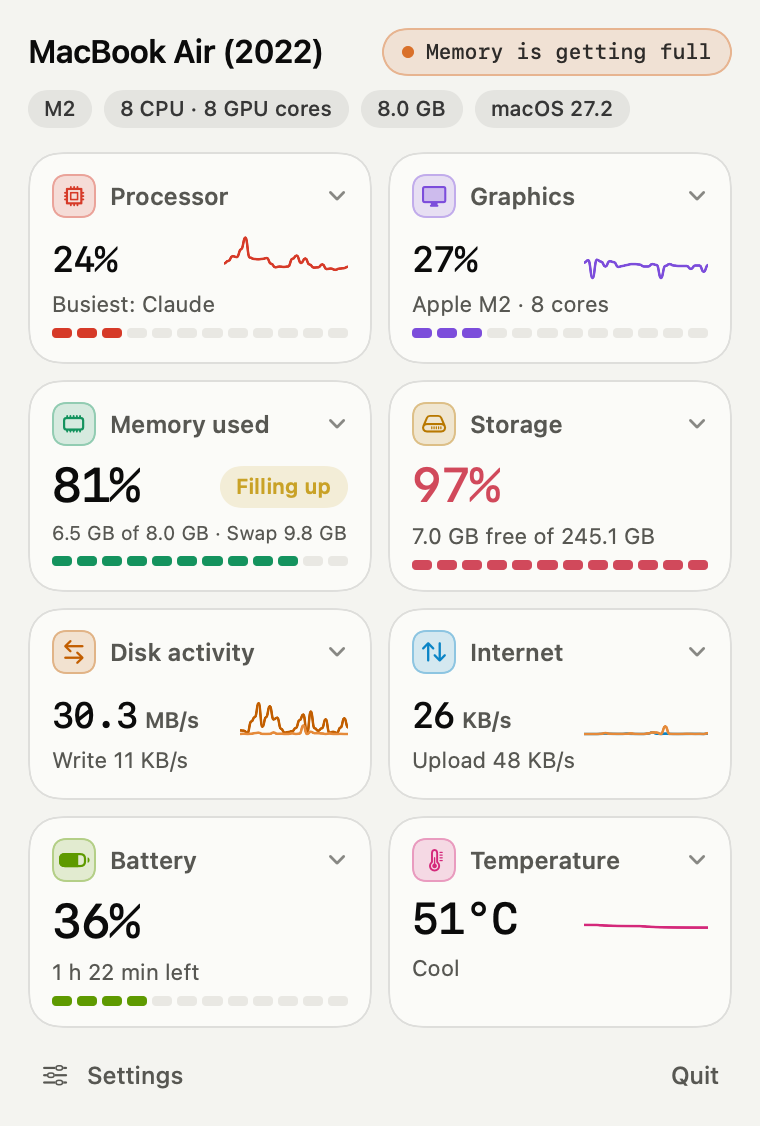
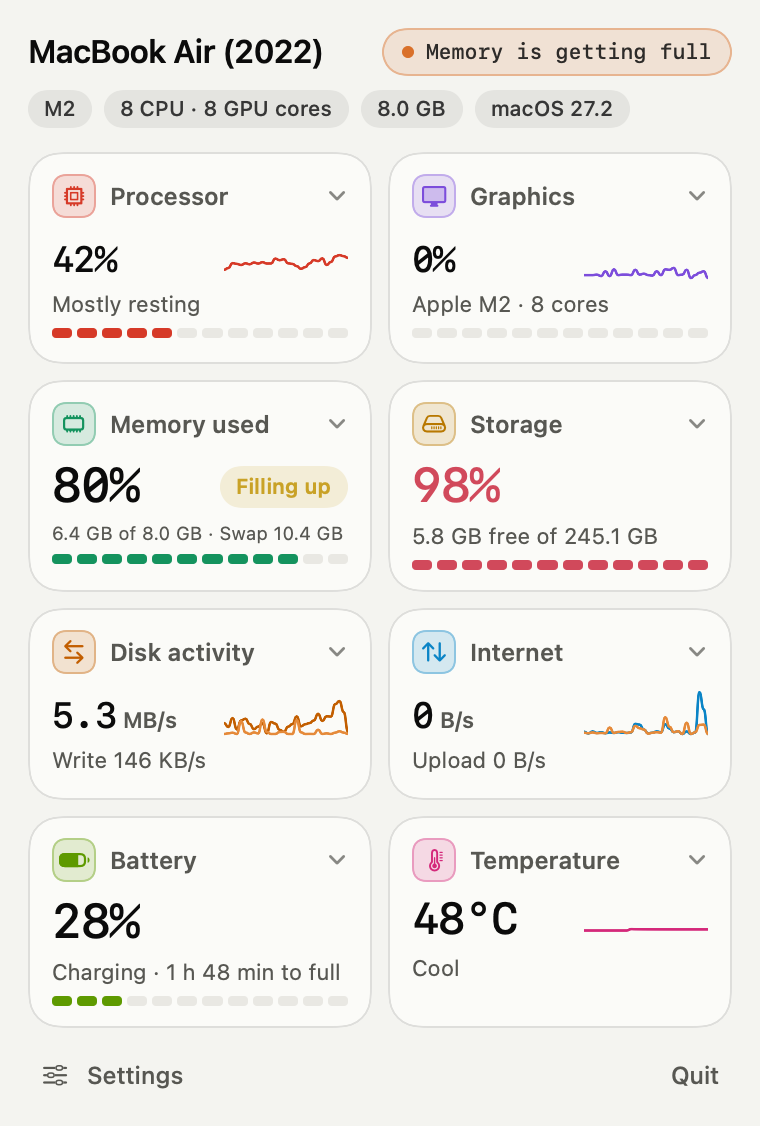
feat: 1.0.1 settings accent colour, opened tiles scroll into view, lighter app list, steady status label

diff --git a/Sources/Model.swift b/Sources/Model.swift
@@ -155,6 +155,10 @@ final class Prefs: ObservableObject {
     /// What the Live graph icon draws.
     @Published var iconSource: ModuleID { didSet { d.set(iconSource.rawValue, forKey: "iconSource") } }
     @Published var iconTinted: Bool { didSet { d.set(iconTinted, forKey: "iconTinted") } }
+    /// Which accent colour the Settings screens use (an index into SettingsAccent.all). Never touches the panel or icons.
+    @Published var settingsAccent: Int {
+        didSet { d.set(settingsAccent, forKey: "settingsAccent"); SettingsAccent.current = SettingsAccent.clamp(settingsAccent) }
+    }
     /// Kept for the test hooks: the hidden icon is one of the icon choices.
     var invisibleIcon: Bool {
         get { mainIcon == .hidden }
@@ -181,6 +185,9 @@ final class Prefs: ObservableObject {
         appearance = d.integer(forKey: "appearance")
         mainIcon = d.string(forKey: "mainIcon").flatMap(MainIcon.init(rawValue:)) ?? (d.bool(forKey: "invisibleIcon") ? .hidden : .bars)
         iconTinted = d.bool(forKey: "iconTinted")
+        let accent = SettingsAccent.clamp(d.integer(forKey: "settingsAccent"))
+        settingsAccent = accent
+        SettingsAccent.current = accent
         iconSource = d.string(forKey: "iconSource").flatMap(ModuleID.init(rawValue:)).flatMap { ModuleID.liveChoices.contains($0) ? $0 : nil } ?? .cpu
         // The colourful look is the only look now (the switch was removed), whatever an older version saved.
         themeIndex = 0
@@ -300,7 +307,15 @@ final class Monitor: ObservableObject {
         a.append(max(0, v)); if a.count > keep { a.removeFirst(a.count - keep) }
     }
 
+    #if STATS_TEST
+    /// Tests freeze the readings so two pictures of the panel can be compared pixel for pixel.
+    var frozen = false
+    #endif
+
     func sample() {
+        #if STATS_TEST
+        if frozen { return }
+        #endif
         sampleAt = ProcessInfo.processInfo.systemUptime
         if needs(.cpu), let c = cpuR.sample() { cpu = c; push(.cpu, c.total) }
         if needs(.memory), let m = memR.sample() { mem = m; push(.memory, m.fraction) }
@@ -331,7 +346,10 @@ final class Monitor: ObservableObject {
         }
         updateSteady(now)
         if visible {
-            if now - procAt >= 2 { procAt = now; procs = procR.sample() }
+            // The app list is the costliest reading (one call per running app), so it is only kept fresh while a tile that
+            // lists apps is open; otherwise it refreshes every 10 seconds for the "Busiest" line.
+            let listing = expanded == .cpu || expanded == .memory
+            if now - procAt >= (listing ? 3 : 10) { procAt = now; procs = procR.sample(exactMemory: expanded == .memory) }
             if now - ownAt > 2 { ownAt = now; let s = selfMeter.sample(); ownCPU = s.cpu; ownMemory = s.memory }
             objectWillChange.send()
         }

diff --git a/Sources/App.swift b/Sources/App.swift
@@ -269,10 +269,12 @@ enum Log {
         case "checks": if p.count > 1 { prefs.internetChecks = p[1] == "1" }
         case "tiles": if p.count > 1 { prefs.colourfulTiles = p[1] == "1" }
         case "invisible": if p.count > 1 { prefs.invisibleIcon = p[1] == "1" }
+        case "freeze": monitor.frozen = p.count > 1 && p[1] == "1"
         case "quietbars": StatusController.quiet = p.count > 1 && p[1] == "1"
         case "icon": if p.count > 1, let i = MainIcon(rawValue: p[1]) { prefs.mainIcon = i }
         case "iconsrc": if p.count > 1, let m = ModuleID(rawValue: p[1]), ModuleID.liveChoices.contains(m) { prefs.iconSource = m }
         case "icontint": if p.count > 1 { prefs.iconTinted = p[1] == "1" }
+        case "accent": if p.count > 1 { prefs.settingsAccent = SettingsAccent.clamp(Int(p[1]) ?? 0) }
         case "refresh": if p.count > 1 { prefs.refresh = Int(p[1]) ?? 2 }
         case "units": if p.count > 2 { if p[1] == "temp" { prefs.fahrenheit = p[2] == "f" } else { prefs.netBits = p[2] == "bits" } }
         case "zones": prefs.zones = p.count > 1 ? p[1].split(separator: ",").map(String.init) : []
@@ -318,7 +320,7 @@ enum Log {
         if let g = m.gpu { d["gpu"] = g }
         d["bars"] = status.info()
         d["summary"] = Dictionary(uniqueKeysWithValues: ModuleID.allCases.map { ($0.rawValue, ["value": m.summary($0).value, "subtitle": m.summary($0).subtitle]) })
-        d["prefs"] = ["refresh": prefs.refresh, "fahrenheit": prefs.fahrenheit, "netBits": prefs.netBits, "appearance": prefs.appearance, "invisible": prefs.invisibleIcon, "icon": prefs.mainIcon.rawValue, "iconSource": prefs.iconSource.rawValue, "iconTinted": prefs.iconTinted, "theme": prefs.themeIndex, "tiles": prefs.colourfulTiles, "checks": prefs.internetChecks, "alerts": prefs.alerts, "zones": prefs.zones]
+        d["prefs"] = ["refresh": prefs.refresh, "fahrenheit": prefs.fahrenheit, "netBits": prefs.netBits, "appearance": prefs.appearance, "invisible": prefs.invisibleIcon, "icon": prefs.mainIcon.rawValue, "iconSource": prefs.iconSource.rawValue, "iconTinted": prefs.iconTinted, "accent": prefs.settingsAccent, "theme": prefs.themeIndex, "tiles": prefs.colourfulTiles, "checks": prefs.internetChecks, "alerts": prefs.alerts, "zones": prefs.zones]
         if let b = m.battery { d["battery"] = ["percent": b.percent, "charging": b.charging, "plugged": b.pluggedIn, "cycles": b.cycles,
                                                 "health": b.health ?? -1, "secondsLeft": b.secondsLeft ?? -1] }
         if let w = popover.contentViewController?.view.window { d["panelFrame"] = NSStringFromRect(w.frame); d["panelWindow"] = w.windowNumber }

diff --git a/Sources/SettingsView.swift b/Sources/SettingsView.swift
@@ -114,6 +114,10 @@ struct SettingsView: View {
             ChipRow(options: [0, 1, 2], selected: prefs.appearance, label: { ["Auto", "Light", "Dark"][$0] }, tint: t) { prefs.appearance = $0 }
         }
         .modifier(pill("appearance"))
+        SettingRow(symbol: "paintbrush.pointed.fill", title: "Accent colour", subtitle: "Colours these Settings only. The panel and icons stay as they are.", tint: t) {
+            AccentSwatches(selected: prefs.settingsAccent) { prefs.settingsAccent = $0 }
+        }
+        .modifier(pill("accent"))
         iconCard(t)
             .modifier(pill("icon"))
         pickerCard(symbol: "waveform.path.ecg", title: "Live graph shows", subtitle: "What the Live graph icon follows in the menu bar.", tint: t) {
@@ -380,5 +384,33 @@ private struct SidebarRow: View {
         .accessibilityLabel(tab.title)
         .accessibilityAddTraits(on ? [.isButton, .isSelected] : .isButton)
         .accessibilityAction(.default, select)
+    }
+}
+
+/// Round colour swatches for the Settings accent. The ring slides to the chosen one with a spring.
+private struct AccentSwatches: View {
+    let selected: Int
+    let choose: (Int) -> Void
+    @Namespace private var ring
+
+    var body: some View {
+        HStack(spacing: 8) {
+            ForEach(SettingsAccent.all.indices, id: \.self) { i in
+                let a = SettingsAccent.all[i]
+                ZStack {
+                    if i == selected {
+                        Circle().strokeBorder(Pal.ink.opacity(0.55), lineWidth: 2).matchedGeometryEffect(id: "ring", in: ring)
+                    }
+                    Circle().fill(Color(nsColor: dyn(a.light, a.dark))).padding(4)
+                }
+                .frame(width: 26, height: 26)
+                .contentShape(Circle())
+                .onTapGesture { withAnimation(.spring(response: 0.3, dampingFraction: 0.78)) { choose(i) } }
+                .accessibilityElement(children: .ignore)
+                .accessibilityLabel("\(a.name) accent")
+                .accessibilityAddTraits(i == selected ? [.isButton, .isSelected] : .isButton)
+                .accessibilityAction { choose(i) }
+            }
+        }
     }
 }

diff --git a/Sources/PanelView.swift b/Sources/PanelView.swift
@@ -23,12 +23,21 @@ struct PanelView: View {
         VStack(spacing: 10) {
             header
             if scrolls {
-                ScrollView(showsIndicators: false) {
-                    cards(modules).background(GeometryReader { Color.clear.preference(key: HeightKey.self, value: $0.size.height) })
+                ScrollViewReader { proxy in
+                    ScrollView(showsIndicators: false) {
+                        cards(modules).background(GeometryReader { Color.clear.preference(key: HeightKey.self, value: $0.size.height) })
+                    }
+                    .frame(height: min(contentHeight, Self.maxListHeight))
+                    .scrollBounceBehavior(.basedOnSize)
+                    .onPreferenceChange(HeightKey.self) { contentHeight = $0 }
+                    // An opened tile near the bottom would be cut off, so once it has grown, scroll just enough to show all of it.
+                    .onChange(of: monitor.expanded) { _, open in
+                        guard let open else { return }
+                        DispatchQueue.main.asyncAfter(deadline: .now() + 0.32) {
+                            withAnimation(reduceMotion ? nil : panelSpring) { proxy.scrollTo(open, anchor: nil) }
+                        }
+                    }
                 }
-                .frame(height: min(contentHeight, Self.maxListHeight))
-                .scrollBounceBehavior(.basedOnSize)
-                .onPreferenceChange(HeightKey.self) { contentHeight = $0 }
             } else {
                 cards(modules)   // test snapshots: ImageRenderer cannot draw a ScrollView
             }
@@ -69,6 +78,7 @@ struct PanelView: View {
                                 ModuleTile(module: m, monitor: monitor, expanded: monitor.expanded == m, wide: row.count == 1) {
                                     withAnimation(reduceMotion ? nil : panelSpring) { monitor.expanded = monitor.expanded == m ? nil : m }
                                 }
+                                .id(m)
                             }
                         }
                         .fixedSize(horizontal: false, vertical: true)

diff --git a/Sources/Theme.swift b/Sources/Theme.swift
@@ -48,8 +48,8 @@ enum Pal {
     }
     /// Companion colours so no screen is one flat colour: second chart line, section colours in Settings.
     static let second = Color(nsColor: dyn(0xE58A3A, 0xF2A25C))
-    /// The app's own colour (the graphite metal of its icon): graphite in light mode, silver in dark.
-    static let brand = Color(nsColor: dyn(0x454952, 0xC5C9D2))
+    /// The Settings accent (graphite by default, matching the icon). Only the Settings screens use it.
+    static var brand: Color { let a = SettingsAccent.all[SettingsAccent.current]; return Color(nsColor: dyn(a.light, a.dark)) }
     static let violet = Color(nsColor: dyn(0x8A6FD0, 0xA58BE8))
     static let blue = Color(nsColor: dyn(0x5B86D6, 0x7EA3EA))
     static let teal = Color(nsColor: dyn(0x3FA48F, 0x58C2AB))
@@ -212,4 +212,15 @@ struct ChipRow<T: Hashable>: View {
             }
         }
     }
+}
+
+/// Accent colours for the Settings screens (light shade, dark shade). Selected chips and tabs put the panel colour on top,
+/// and each pair keeps WCAG AA contrast for that text: at least 4.9 to 1 in light and 5.8 to 1 in dark.
+enum SettingsAccent {
+    static let all: [(name: String, light: UInt32, dark: UInt32)] = [
+        ("Graphite", 0x454952, 0xC5C9D2), ("Blue", 0x2160C4, 0x82B1F2), ("Teal", 0x0B7268, 0x4FD1C0),
+        ("Orchid", 0xB0307F, 0xE25AA4), ("Orange", 0xB04A0A, 0xF59A4A),
+    ]
+    static var current = 0
+    static func clamp(_ i: Int) -> Int { min(max(i, 0), all.count - 1) }
 }

diff --git a/Sources/Readers2.swift b/Sources/Readers2.swift
@@ -263,7 +263,7 @@ final class ProcessReader {
         return Double(t.numer) / Double(t.denom)
     }()
 
-    func sample() -> [ProcRow] {
+    func sample(exactMemory: Bool = true) -> [ProcRow] {
         // proc_listallpids returns a number of processes (not bytes); the buffer size argument is in bytes.
         let count = proc_listallpids(nil, 0)
         guard count > 0 else { return [] }
@@ -272,7 +272,7 @@ final class ProcessReader {
         guard n > 0 else { return [] }
         let now = ProcessInfo.processInfo.systemUptime
         // After a long gap (panel closed) old tick counts would average a whole stretch of time, so start fresh.
-        if prevAt > 0, now - prevAt > 6 { prev = [:]; prevAt = 0 }
+        if prevAt > 0, now - prevAt > 15 { prev = [:]; prevAt = 0 }
         let dt = (now - prevAt) * 1e9
         var cur: [Int32: UInt64] = [:]
         var rows: [ProcRow] = []
@@ -286,6 +286,7 @@ final class ProcessReader {
             rows.append(ProcRow(id: pid, name: name(pid), cpu: cpu, memory: Double(ti.pti_resident_size)))
         }
         prev = cur; prevAt = now
+        guard exactMemory else { return rows }
         // The exact memory figure (what Activity Monitor shows) costs a call per app, so only the biggest ones get it.
         let big = Set(rows.sorted { $0.memory > $1.memory }.prefix(40).map(\.id))
         for i in rows.indices where big.contains(rows[i].id) {

diff --git a/Sources/SettingsNav.swift b/Sources/SettingsNav.swift
@@ -20,7 +20,7 @@ import SwiftUI
 
     /// Every setting in the order the pages show them.
     var rows: [Row] {
-        var r: [Row] = [Row(id: "appearance", tab: .look), Row(id: "icon", tab: .look), Row(id: "iconsource", tab: .look), Row(id: "icontint", tab: .look),
+        var r: [Row] = [Row(id: "appearance", tab: .look), Row(id: "accent", tab: .look), Row(id: "icon", tab: .look), Row(id: "iconsource", tab: .look), Row(id: "icontint", tab: .look),
                        Row(id: "unit.temp", tab: .look), Row(id: "unit.speed", tab: .look), Row(id: "refresh", tab: .look)]
         for m in ModuleID.allCases {
             r.append(Row(id: "mod.\(m.rawValue).show", tab: .modules))
@@ -64,6 +64,7 @@ import SwiftUI
     private func adjust(_ id: String, _ d: Int, activate: Bool = false) {
         switch id {
         case "appearance": prefs.appearance = step([0, 1, 2], prefs.appearance, d)
+        case "accent": prefs.settingsAccent = step(Array(SettingsAccent.all.indices), prefs.settingsAccent, d)
         case "theme": prefs.themeIndex = step(Array(ThemeStore.all.indices), min(prefs.themeIndex, ThemeStore.all.count - 1), d)
         case "icon": prefs.mainIcon = step(MainIcon.allCases, prefs.mainIcon, d)
         case "iconsource": prefs.iconSource = step(ModuleID.liveChoices, prefs.iconSource, d)

diff --git a/tests/run.py b/tests/run.py
@@ -216,7 +216,7 @@ def goto(row, limit=40):
     return cur() == row
 post("nav:reset", 0.2)
 post("nav:down", 0.3); check("nav: first Down highlights Appearance", cur() == "appearance")
-for _ in range(7): post("nav:down", 0.12)
+for _ in range(8): post("nav:down", 0.12)
 check("nav: Down walks to the next page's first row", cur() == "mod.cpu.show" and state()["navTab"] == 1, cur())
 post("nav:up", 0.2); check("nav: Up goes back a row", cur() == "refresh" and state()["navTab"] == 0, cur())
 post("nav:reset", 0.2); post("nav:up", 0.3)
@@ -250,6 +250,17 @@ post("nav:reset", 0.2); post("nav:down", 0.2); post("nav:down", 0.2); post("nav:
 for scheme in ["light", "dark"]: post(f"snap:navhl:{scheme}", 1.0)
 check("nav: highlight snapshot drawn", os.path.exists(f"{SNAP}/navhl-settings0-light.png") and os.path.exists(f"{SNAP}/navhl-settings0-dark.png"))
 post("nav:reset", 0.2)
+
+# accent colour: saved, and the main panel looks exactly the same whichever accent is chosen
+post("accent:3", 0.3); check("accent colour saved", state()["prefs"]["accent"] == 3)
+post("freeze:1", 1.2)
+for sch in ["light", "dark"]:
+    post("accent:0", 0.3); post(f"snap:acc0:{sch}", 1.5); post("accent:3", 0.3); post(f"snap:acc3:{sch}", 1.5)
+    a = open(os.path.join(SNAP, f"acc0-panel-{sch}.png"), "rb").read(); b = open(os.path.join(SNAP, f"acc3-panel-{sch}.png"), "rb").read()
+    check(f"panel identical with orchid accent ({sch})", a == b and len(a) > 1000, f"{len(a)} vs {len(b)} bytes")
+post("accent:1", 0.3); post("setshot:accblue:0:light", 1.2); post("setshot:accblue:0:dark", 1.2)
+post("accent:3", 0.3); post("setshot:accorchid:0:light", 1.2); post("setshot:accorchid:0:dark", 1.2)
+post("accent:0", 0.3); post("freeze:0", 0.3)
 
 print(f"\n{passes} passed, {len(fails)} failed")
 if fails: print("FAILED:", ", ".join(fails)); sys.exit(1)

diff --git a/README.md b/README.md
@@ -7,7 +7,7 @@
 **How your Mac is doing, in plain words.**
 
 <p>
-  <a href="https://github.com/Solomon-69/Stats/releases/latest"><img alt="Version 1.0.0" src="https://img.shields.io/badge/version-1.0.0-0e8fa3?style=flat-square"></a>
+  <a href="https://github.com/Solomon-69/Stats/releases/latest"><img alt="Version 1.0.1" src="https://img.shields.io/badge/version-1.0.1-454952?style=flat-square"></a>
   <img alt="macOS 14 or later" src="https://img.shields.io/badge/macOS-14%2B-1f1d1a?style=flat-square&logo=apple&logoColor=white">
   <a href="LICENSE"><img alt="MIT licence" src="https://img.shields.io/badge/licence-MIT-5b8a5a?style=flat-square"></a>
 </p>
